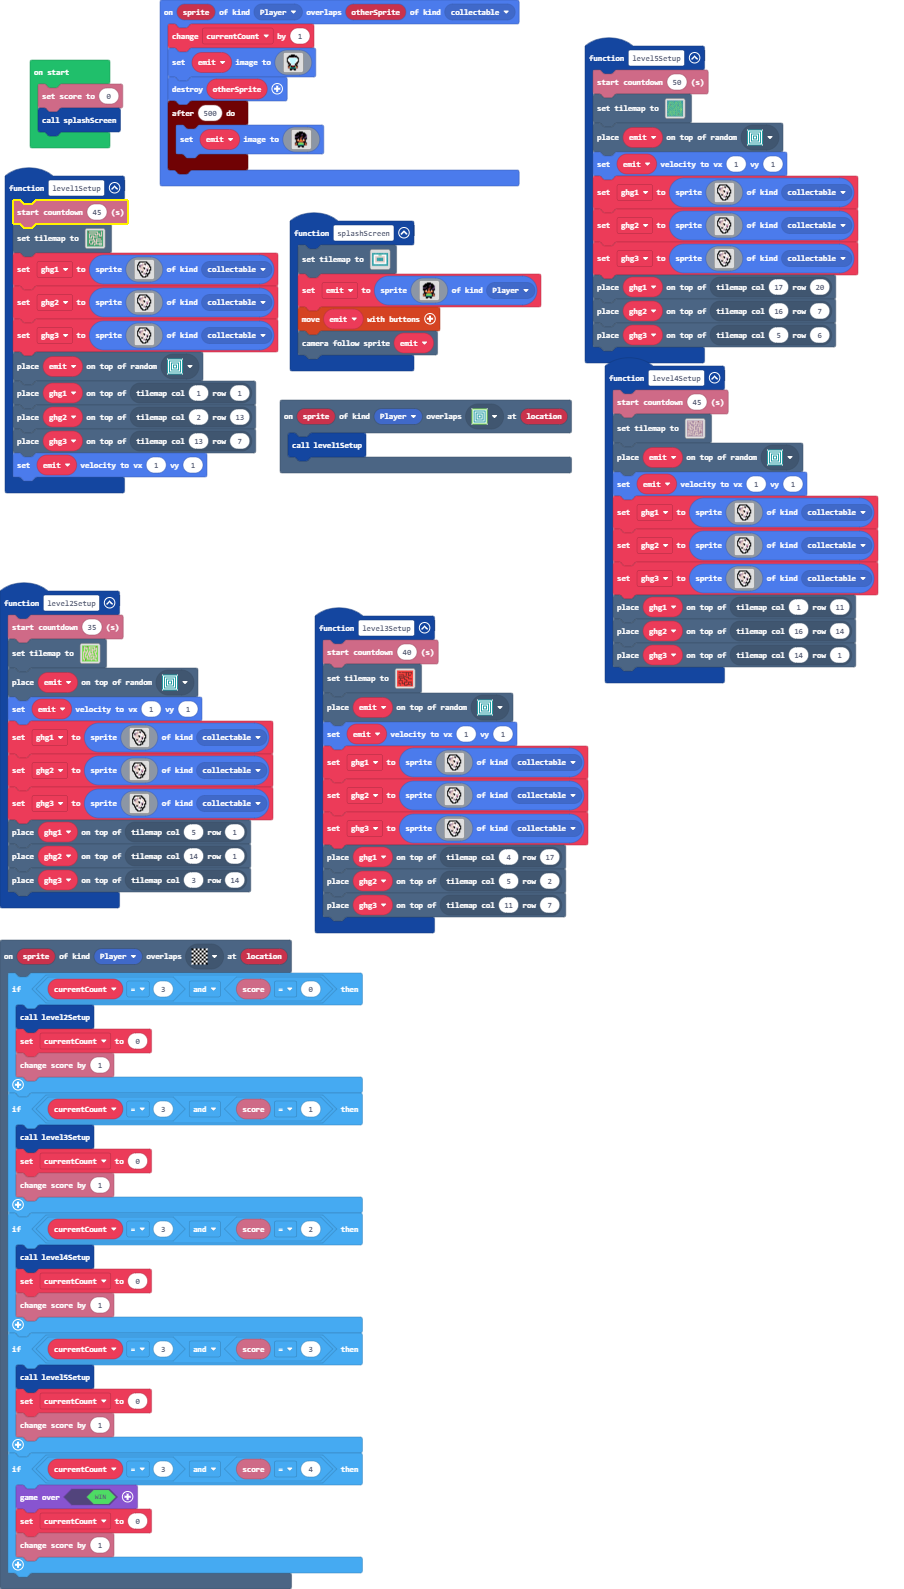
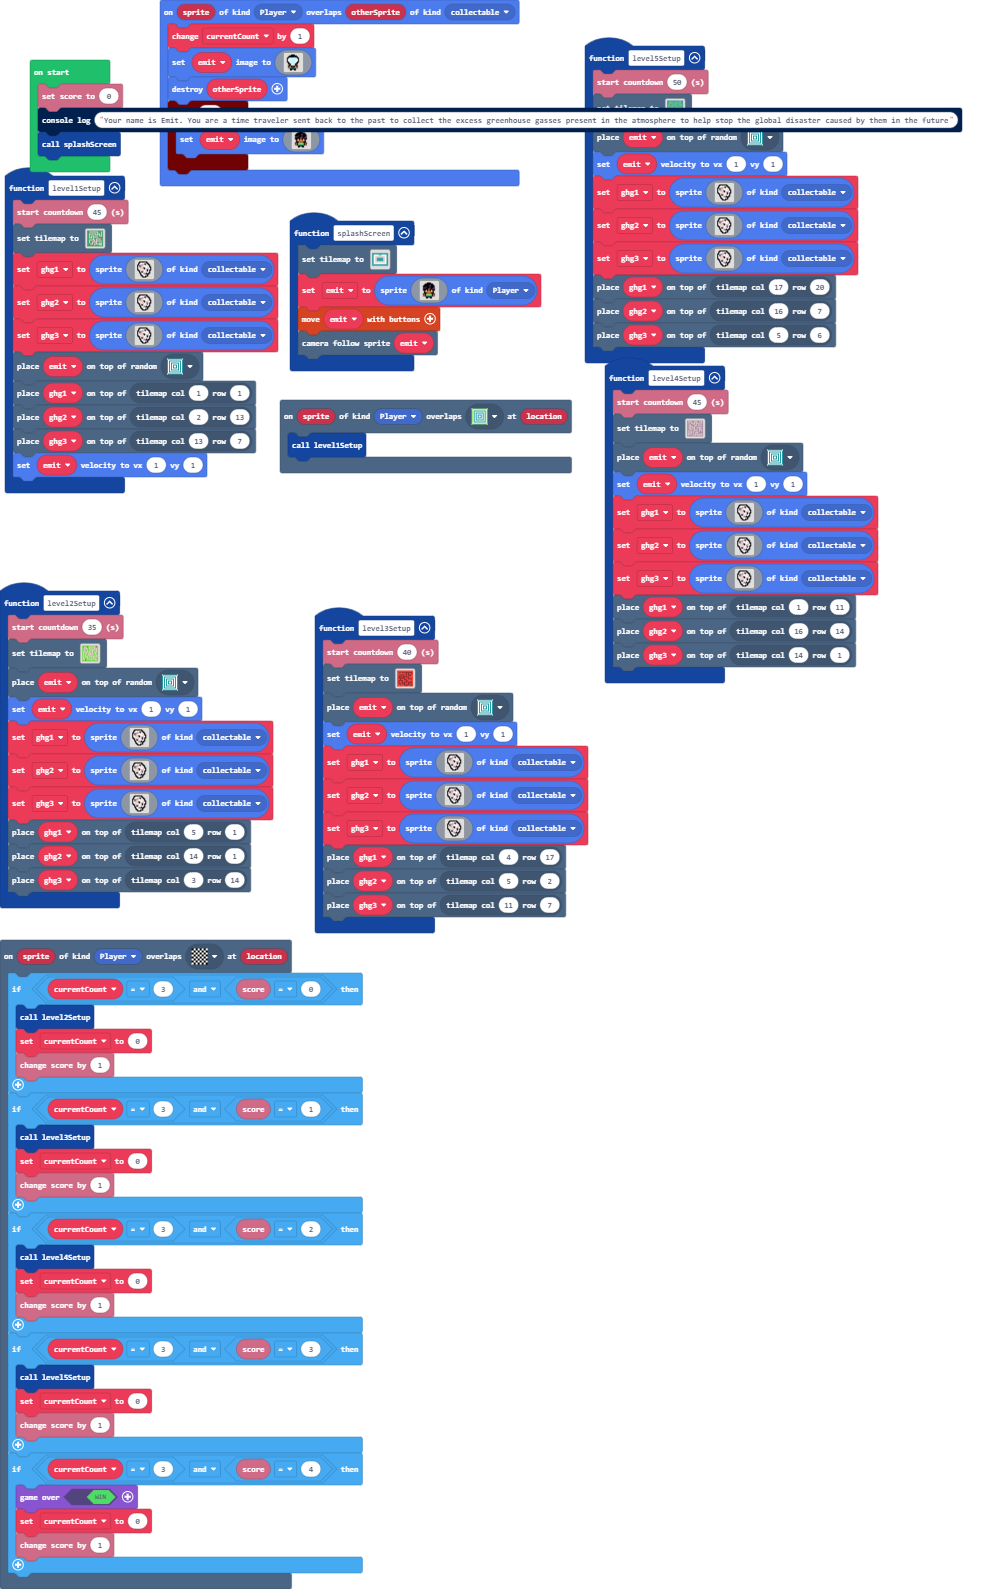
Update main.blocks, main.ts

diff --git a/main.ts b/main.ts
@@ -111,4 +111,5 @@ let ghg2: Sprite = null
 let ghg1: Sprite = null
 let emit: Sprite = null
 info.setScore(0)
+console.log("Your name is Emit. You are a time traveler sent back to the past to collect the excess greenhouse gasses present in the atmosphere to help stop the global disaster caused by them in the future")
 splashScreen()
